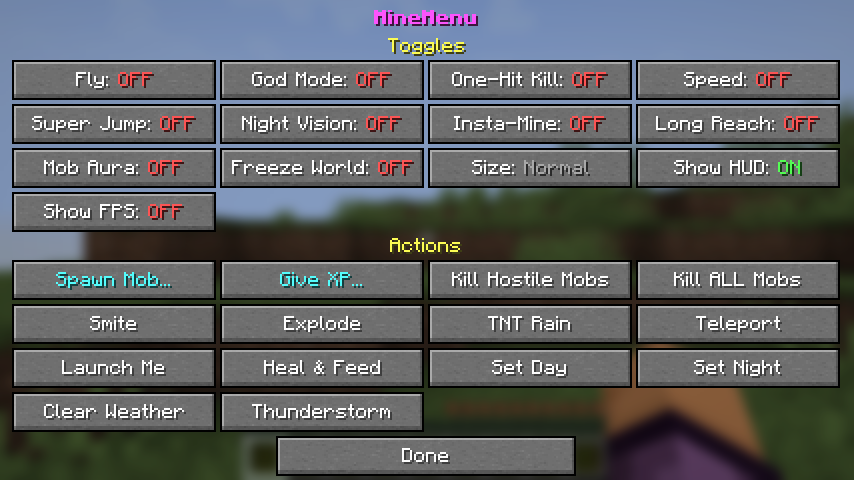
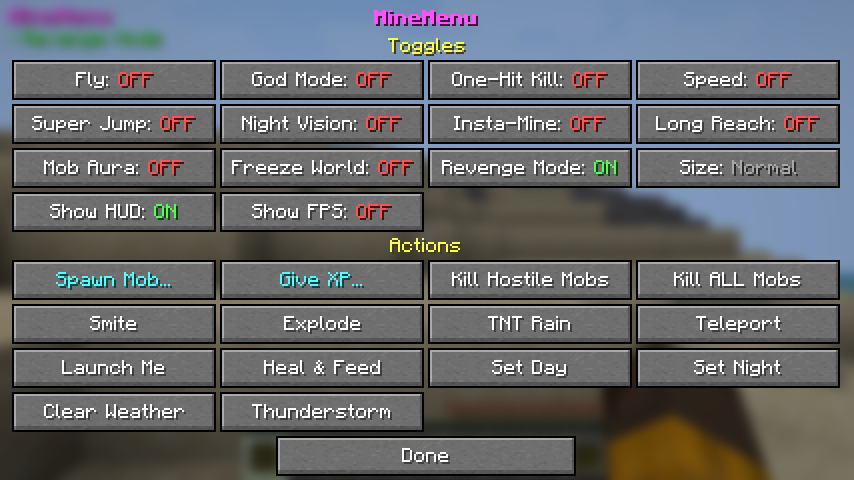
MineMenu 2.0.2: Revenge Mode
New toggle: when a mob kills the singleplayer host, a cosmetic
lightning bolt strikes the killer and it dies, and the player respawns
where they died with 5 seconds of Resistance and Fire Resistance. The
killer is the damage source's attacker (so shooters count for
projectiles) or, failing that, the player's prime adversary. Deaths
without a mob, and void deaths, respawn normally.

Claude-Session: https://claude.ai/code/session_01VbNjxwf62bM8M1s9LeNLAe

diff --git a/src/main/java/com/minemenu/Revenge.java b/src/main/java/com/minemenu/Revenge.java
@@ -1,0 +1,118 @@
+package com.minemenu;
+
+import net.minecraft.entity.Entity;
+import net.minecraft.entity.EntityType;
+import net.minecraft.entity.LightningEntity;
+import net.minecraft.entity.LivingEntity;
+import net.minecraft.entity.damage.DamageSource;
+import net.minecraft.entity.effect.StatusEffectInstance;
+import net.minecraft.entity.effect.StatusEffects;
+import net.minecraft.entity.player.PlayerEntity;
+import net.minecraft.registry.RegistryKey;
+import net.minecraft.server.MinecraftServer;
+import net.minecraft.server.network.ServerPlayerEntity;
+import net.minecraft.server.world.ServerWorld;
+import net.minecraft.text.Text;
+import net.minecraft.util.Formatting;
+import net.minecraft.util.math.Vec3d;
+import net.minecraft.world.World;
+
+/**
+ * Revenge Mode: when a mob kills you, lightning destroys that mob, and you
+ * respawn right where you died instead of at your bed or world spawn.
+ */
+public final class Revenge {
+    /** Seconds of protection after a revenge respawn, so you don't die again straight away. */
+    private static final int PROTECTION_TICKS = 5 * 20;
+
+    private record DeathSpot(RegistryKey<World> world, Vec3d pos, float yaw, float pitch, String killerName) {
+    }
+
+    /** Where the host died to a mob, waiting for them to press Respawn. Server thread only. */
+    private static DeathSpot pending;
+
+    private Revenge() {
+    }
+
+    public static void onServerStarted(MinecraftServer server) {
+        pending = null;
+    }
+
+    /** Called after any living entity dies. */
+    public static void onDeath(LivingEntity entity, DamageSource source) {
+        if (!(entity instanceof ServerPlayerEntity player) || !CheatState.isOn(Feature.REVENGE)) {
+            return;
+        }
+        MinecraftServer server = player.getServer();
+        if (server == null || ServerCheats.host(server) != player) {
+            return;
+        }
+        LivingEntity killer = findKiller(player, source);
+        if (killer == null) {
+            return; // not killed by a mob (fall, lava, /kill...): respawn normally
+        }
+
+        String killerName = killer.getName().getString();
+        smite(killer);
+
+        // Dying in the void: respawning there would just kill you again.
+        if (player.getY() > player.getServerWorld().getBottomY()) {
+            pending = new DeathSpot(player.getServerWorld().getRegistryKey(), player.getPos(),
+                    player.getYaw(), player.getPitch(), killerName);
+        }
+    }
+
+    /** The mob responsible for this death, or null if it wasn't a mob. */
+    private static LivingEntity findKiller(ServerPlayerEntity player, DamageSource source) {
+        // getAttacker() is the shooter for arrows/fireballs and the creeper for creeper explosions.
+        Entity attacker = source.getAttacker();
+        LivingEntity killer = attacker instanceof LivingEntity living ? living : null;
+        if (killer == null) {
+            // e.g. a zombie knocked you off a cliff: Minecraft still remembers who it was.
+            killer = player.getPrimeAdversary();
+        }
+        if (killer == null || killer == player || killer instanceof PlayerEntity) {
+            return null;
+        }
+        return killer;
+    }
+
+    /** Strikes the mob with (harmless) lightning for the show, then kills it. */
+    private static void smite(LivingEntity killer) {
+        if (killer.getWorld() instanceof ServerWorld world) {
+            LightningEntity bolt = EntityType.LIGHTNING_BOLT.create(world);
+            if (bolt != null) {
+                bolt.refreshPositionAfterTeleport(killer.getPos());
+                bolt.setCosmetic(true); // no fire, no damage to anything else
+                world.spawnEntity(bolt);
+            }
+        }
+        // A creeper that killed you has already exploded and is gone; that's fine.
+        if (killer.isAlive()) {
+            killer.kill();
+        }
+    }
+
+    /** Called after the player presses Respawn. */
+    public static void onRespawn(ServerPlayerEntity oldPlayer, ServerPlayerEntity newPlayer, boolean alive) {
+        DeathSpot spot = pending;
+        pending = null;
+        if (alive || spot == null) {
+            return; // alive = coming back from the End, not a death
+        }
+        MinecraftServer server = newPlayer.getServer();
+        if (server == null || ServerCheats.host(server) != newPlayer) {
+            return;
+        }
+        ServerWorld world = server.getWorld(spot.world());
+        if (world == null) {
+            return;
+        }
+        newPlayer.teleport(world, spot.pos().x, spot.pos().y, spot.pos().z, spot.yaw(), spot.pitch());
+        newPlayer.fallDistance = 0;
+        newPlayer.addStatusEffect(new StatusEffectInstance(StatusEffects.RESISTANCE, PROTECTION_TICKS, 4));
+        newPlayer.addStatusEffect(new StatusEffectInstance(StatusEffects.FIRE_RESISTANCE, PROTECTION_TICKS, 0));
+        newPlayer.sendMessage(Text.literal("⚡ Revenge! The " + spot.killerName() + " that killed you has been destroyed.")
+                .formatted(Formatting.GOLD, Formatting.BOLD), false);
+    }
+}

diff --git a/src/main/java/com/minemenu/MineMenuClient.java b/src/main/java/com/minemenu/MineMenuClient.java
@@ -5,6 +5,7 @@ import net.fabricmc.fabric.api.client.event.lifecycle.v1.ClientTickEvents;
 import net.fabricmc.fabric.api.client.keybinding.v1.KeyBindingHelper;
 import net.fabricmc.fabric.api.client.rendering.v1.HudRenderCallback;
 import net.fabricmc.fabric.api.entity.event.v1.ServerLivingEntityEvents;
+import net.fabricmc.fabric.api.entity.event.v1.ServerPlayerEvents;
 import net.fabricmc.fabric.api.event.lifecycle.v1.ServerLifecycleEvents;
 import net.fabricmc.fabric.api.event.lifecycle.v1.ServerTickEvents;
 import net.minecraft.client.MinecraftClient;
@@ -43,6 +44,9 @@ public class MineMenuClient implements ClientModInitializer {
 
         // These fire for the integrated (singleplayer) server, which runs inside the client.
         ServerLifecycleEvents.SERVER_STARTED.register(ServerCheats::onServerStarted);
+        ServerLifecycleEvents.SERVER_STARTED.register(Revenge::onServerStarted);
+        ServerLivingEntityEvents.AFTER_DEATH.register(Revenge::onDeath);
+        ServerPlayerEvents.AFTER_RESPAWN.register(Revenge::onRespawn);
         ServerLifecycleEvents.SERVER_STOPPING.register(ServerCheats::revertAll);
         ServerTickEvents.END_SERVER_TICK.register(ServerCheats::tick);
         ServerLivingEntityEvents.ALLOW_DAMAGE.register((entity, source, amount) ->

diff --git a/src/main/java/com/minemenu/ServerCheats.java b/src/main/java/com/minemenu/ServerCheats.java
@@ -181,8 +181,8 @@ public final class ServerCheats {
                 player.sendAbilitiesUpdate();
                 applyAttributes(player, feature);
             }
-            case MOB_AURA -> {
-                // handled every few ticks in tick()
+            case MOB_AURA, REVENGE -> {
+                // Mob Aura runs in tick(); Revenge reacts to deaths (see Revenge)
             }
             default -> applyAttributes(player, feature);
         }
@@ -205,7 +205,7 @@ public final class ServerCheats {
                 player.sendAbilitiesUpdate();
                 removeAttributes(player, feature);
             }
-            case GOD_MODE, MOB_AURA -> {
+            case GOD_MODE, MOB_AURA, REVENGE -> {
                 // nothing to undo
             }
             default -> removeAttributes(player, feature);

diff --git a/src/main/java/com/minemenu/Feature.java b/src/main/java/com/minemenu/Feature.java
@@ -15,7 +15,8 @@ public enum Feature {
     INSTA_MINE("Insta-Mine", "Break blocks almost instantly."),
     LONG_REACH("Long Reach", "Reach blocks and mobs from much farther away."),
     MOB_AURA("Mob Aura", "Hostile mobs that come within 8 blocks of you die instantly."),
-    FREEZE_WORLD("Freeze World", "Freeze every mob, projectile and machine. You can still move.");
+    FREEZE_WORLD("Freeze World", "Freeze every mob, projectile and machine. You can still move."),
+    REVENGE("Revenge Mode", "If a mob kills you, lightning destroys it and you respawn right where you died.");
 
     private final String displayName;
     private final String description;

diff --git a/README.md b/README.md
@@ -10,7 +10,7 @@ A **singleplayer-only** fun menu for **Minecraft Java 1.21.1** (Fabric). Fly, tu
 
 1. Install the [Fabric Loader](https://fabricmc.net/use/installer/) for Minecraft **1.21.1**.
 2. Download [Fabric API](https://modrinth.com/mod/fabric-api) for 1.21.1 and put it in your `.minecraft/mods` folder.
-3. Download `minemenu-2.0.1.jar` from the [Releases page](https://github.com/peachiu/MineMenu/releases) and put it in the same `mods` folder.
+3. Download `minemenu-2.0.2.jar` from the [Releases page](https://github.com/peachiu/MineMenu/releases) and put it in the same `mods` folder.
 4. Start Minecraft with the Fabric 1.21.1 profile and open a singleplayer world.
 5. Press **Right Shift** to open the menu.
 
@@ -32,6 +32,7 @@ Hover any button in the game to see what it does.
 | Long Reach | Reach blocks and mobs from about 20 blocks away. |
 | Mob Aura | Hostile mobs within 8 blocks of you die automatically. |
 | Freeze World | Freezes all mobs, projectiles, redstone and so on. You can still move around. |
+| Revenge Mode | If a mob kills you, lightning strikes it and it dies, and you respawn right where you died. See [Revenge Mode](#revenge-mode). |
 | Size | Cycle between Normal, **Giant** (4×) and **Tiny** (¼). |
 | Show HUD | Shows the list of active cheats in the top-left corner. Turn it off for clean footage. |
 | Show FPS | Shows your frames per second in the top-left corner (green 60+, yellow 30+, red below 30). |
@@ -75,6 +76,20 @@ Hostile mobs disappear straight away on Peaceful, and Mob Aura kills them if it'
 
 The box only accepts numbers, up to 100,000 levels.
 
+### Revenge Mode
+
+![Respawning after Revenge Mode](docs/revenge.png)
+
+With **Revenge Mode** on, when a mob kills you:
+
+1. Lightning strikes the mob that killed you and it dies. The lightning is just for show: it doesn't start fires or hurt anything else.
+2. When you press **Respawn**, you come back right where you died, next to your dropped items, instead of at your bed or the world spawn.
+3. You get 5 seconds of protection (Resistance and Fire Resistance) so you don't die again straight away.
+
+Arrows and fireballs count: the skeleton or ghast that shot you is the one that dies. If a mob knocked you off a cliff or into lava, Minecraft still remembers it, so it dies too.
+
+If you die without a mob being involved (falling on your own, drowning, `/kill`), you respawn normally. If you fall into the void, you respawn normally too, so you don't land back in the void.
+
 ### Keybinds
 
 Change these in **Options → Controls → Key Binds → MineMenu**.
@@ -104,7 +119,7 @@ You need **Java 21**.
 ./gradlew build
 ```
 
-The mod jar ends up in `build/libs/minemenu-2.0.1.jar`. Ignore the `-sources.jar` file.
+The mod jar ends up in `build/libs/minemenu-2.0.2.jar`. Ignore the `-sources.jar` file.
 
 To try it straight from the source code, run `./gradlew runClient`.
 
@@ -124,5 +139,6 @@ MineMenu is a client mod. When you play singleplayer, Minecraft runs a small ser
 - `MineMenuScreen`: the menu.
 - `MobSpawnScreen` / `MobList`: the Spawn Mob picker.
 - `XpScreen`: the Give XP screen.
+- `Revenge`: Revenge Mode.
 - `ServerCheats`: everything that changes the game.
 - `CheatState` / `Feature`: which toggles are on.

diff --git a/.github/release-notes/v2.0.2.md b/.github/release-notes/v2.0.2.md
@@ -1,0 +1,23 @@
+MineMenu 2.0.2 for **Minecraft Java 1.21.1** (Fabric) adds Revenge Mode.
+
+## What's new
+
+### Revenge Mode
+A new toggle in the menu. When a mob kills you:
+
+![Respawning after Revenge Mode](https://raw.githubusercontent.com/peachiu/MineMenu/v2.0.2/docs/revenge.png)
+
+- ⚡ **Lightning strikes the mob that killed you and it dies.** The lightning is just for show: no fires, no damage to anything else.
+- **You respawn right where you died**, next to your dropped items, instead of at your bed or the world spawn.
+- You get **5 seconds of protection** (Resistance and Fire Resistance) so you don't die again straight away.
+- Arrows and fireballs count: the skeleton or ghast that shot you is the one that dies. A mob that knocked you off a cliff or into lava counts too.
+
+If you die without a mob being involved (falling on your own, drowning, `/kill`) or fall into the void, you respawn normally.
+
+## Install
+
+1. Install the [Fabric Loader](https://fabricmc.net/use/installer/) for Minecraft **1.21.1**.
+2. Put [Fabric API](https://modrinth.com/mod/fabric-api) (1.21.1) and **`minemenu-2.0.2.jar`** (below) in your `.minecraft/mods` folder. Remove any older `minemenu` jar.
+3. Open a singleplayer world and press **Right Shift**.
+
+MineMenu still only works in your own singleplayer worlds. See the [README](https://github.com/peachiu/MineMenu/blob/v2.0.2/README.md) for the full feature list.
